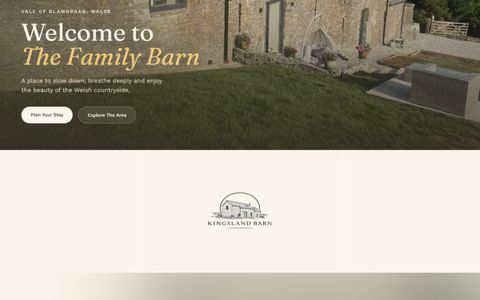
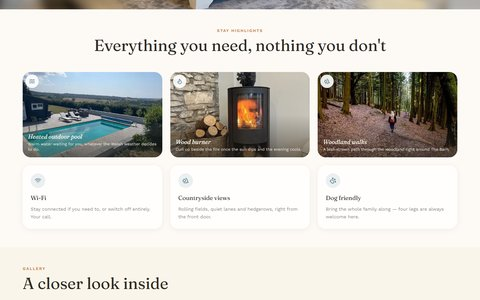
Clean up internal links to clean URLs, mix up filmstrip order, slow scroll, fix blank barn tile
- index.html/case-studies.html: use clean URLs (/, /case-studies) instead of .html to avoid Cloudflare redirect hop
- Interleave filmstrip tiles round-robin across all 6 projects instead of grouping by project
- Slow filmstrip scroll animation from 55s to 130s
- Recapture Kingsland Barn screenshot with scroll-triggered lazy-load, replace blank barn-mq2/mq3 tiles with real gallery/amenity photos

diff --git a/website/index.html b/website/index.html
@@ -28,7 +28,7 @@
       <a href="#pricing">Pricing</a>
       <a href="#reviews">Reviews</a>
       <a href="#faq">FAQ</a>
-      <a href="case-studies.html">Case Studies</a>
+      <a href="/case-studies">Case Studies</a>
       <a href="#contact">Contact</a>
     </nav>
     <a href="#contact" class="btn btn-primary btn-sm header-cta">Let's Talk</a>
@@ -281,28 +281,28 @@
     <div class="filmstrip-outer">
       <div class="filmstrip-track" id="filmstripTrack">
         <a class="filmstrip-tile" href="https://www.valereflexology.com" target="_blank" rel="noopener"><img src="assets/vale-mq1.jpg" alt="" loading="lazy"><span>Vale Reflexology</span></a>
-        <a class="filmstrip-tile" href="https://www.valereflexology.com" target="_blank" rel="noopener"><img src="assets/vale-mq2.jpg" alt="" loading="lazy"><span>Vale Reflexology</span></a>
-        <a class="filmstrip-tile" href="https://www.valereflexology.com" target="_blank" rel="noopener"><img src="assets/vale-mq3.jpg" alt="" loading="lazy"><span>Vale Reflexology</span></a>
         <a class="filmstrip-tile" href="https://kingslandbarn.co.uk" target="_blank" rel="noopener"><img src="assets/barn-mq1.jpg" alt="" loading="lazy"><span>Kingsland Barn</span></a>
-        <a class="filmstrip-tile" href="https://kingslandbarn.co.uk" target="_blank" rel="noopener"><img src="assets/barn-mq2.jpg" alt="" loading="lazy"><span>Kingsland Barn</span></a>
-        <a class="filmstrip-tile" href="https://kingslandbarn.co.uk" target="_blank" rel="noopener"><img src="assets/barn-mq3.jpg" alt="" loading="lazy"><span>Kingsland Barn</span></a>
         <a class="filmstrip-tile" href="https://www.brew-buddies.com" target="_blank" rel="noopener"><img src="assets/brewbuddies-mq1.jpg" alt="" loading="lazy"><span>Brew Buddies</span></a>
-        <a class="filmstrip-tile" href="https://www.brew-buddies.com" target="_blank" rel="noopener"><img src="assets/brewbuddies-mq2.jpg" alt="" loading="lazy"><span>Brew Buddies</span></a>
-        <a class="filmstrip-tile" href="https://www.brew-buddies.com" target="_blank" rel="noopener"><img src="assets/brewbuddies-mq3.jpg" alt="" loading="lazy"><span>Brew Buddies</span></a>
         <a class="filmstrip-tile" href="https://www.snowbuddy.co.uk" target="_blank" rel="noopener"><img src="assets/snowbuddy-mq1.jpg" alt="" loading="lazy"><span>SnowBuddy</span></a>
-        <a class="filmstrip-tile" href="https://www.snowbuddy.co.uk" target="_blank" rel="noopener"><img src="assets/snowbuddy-mq2.jpg" alt="" loading="lazy"><span>SnowBuddy</span></a>
-        <a class="filmstrip-tile" href="https://www.snowbuddy.co.uk" target="_blank" rel="noopener"><img src="assets/snowbuddy-mq3.jpg" alt="" loading="lazy"><span>SnowBuddy</span></a>
         <a class="filmstrip-tile" href="https://square3.co.uk" target="_blank" rel="noopener"><img src="assets/square3-mq1.jpg" alt="" loading="lazy"><span>Square³</span></a>
-        <a class="filmstrip-tile" href="https://square3.co.uk" target="_blank" rel="noopener"><img src="assets/square3-mq2.jpg" alt="" loading="lazy"><span>Square³</span></a>
-        <a class="filmstrip-tile" href="https://square3.co.uk" target="_blank" rel="noopener"><img src="assets/square3-mq3.jpg" alt="" loading="lazy"><span>Square³</span></a>
         <a class="filmstrip-tile" href="https://myvillagedecor.legendwebsites.co.uk" target="_blank" rel="noopener"><img src="assets/myvillagedecor-mq1.jpg" alt="" loading="lazy"><span>My Village Decor</span></a>
+        <a class="filmstrip-tile" href="https://kingslandbarn.co.uk" target="_blank" rel="noopener"><img src="assets/barn-mq2.jpg" alt="" loading="lazy"><span>Kingsland Barn</span></a>
+        <a class="filmstrip-tile" href="https://www.snowbuddy.co.uk" target="_blank" rel="noopener"><img src="assets/snowbuddy-mq2.jpg" alt="" loading="lazy"><span>SnowBuddy</span></a>
+        <a class="filmstrip-tile" href="https://www.valereflexology.com" target="_blank" rel="noopener"><img src="assets/vale-mq2.jpg" alt="" loading="lazy"><span>Vale Reflexology</span></a>
         <a class="filmstrip-tile" href="https://myvillagedecor.legendwebsites.co.uk" target="_blank" rel="noopener"><img src="assets/myvillagedecor-mq2.jpg" alt="" loading="lazy"><span>My Village Decor</span></a>
+        <a class="filmstrip-tile" href="https://square3.co.uk" target="_blank" rel="noopener"><img src="assets/square3-mq2.jpg" alt="" loading="lazy"><span>Square³</span></a>
+        <a class="filmstrip-tile" href="https://www.brew-buddies.com" target="_blank" rel="noopener"><img src="assets/brewbuddies-mq2.jpg" alt="" loading="lazy"><span>Brew Buddies</span></a>
+        <a class="filmstrip-tile" href="https://square3.co.uk" target="_blank" rel="noopener"><img src="assets/square3-mq3.jpg" alt="" loading="lazy"><span>Square³</span></a>
+        <a class="filmstrip-tile" href="https://www.valereflexology.com" target="_blank" rel="noopener"><img src="assets/vale-mq3.jpg" alt="" loading="lazy"><span>Vale Reflexology</span></a>
+        <a class="filmstrip-tile" href="https://kingslandbarn.co.uk" target="_blank" rel="noopener"><img src="assets/barn-mq3.jpg" alt="" loading="lazy"><span>Kingsland Barn</span></a>
         <a class="filmstrip-tile" href="https://myvillagedecor.legendwebsites.co.uk" target="_blank" rel="noopener"><img src="assets/myvillagedecor-mq3.jpg" alt="" loading="lazy"><span>My Village Decor</span></a>
+        <a class="filmstrip-tile" href="https://www.snowbuddy.co.uk" target="_blank" rel="noopener"><img src="assets/snowbuddy-mq3.jpg" alt="" loading="lazy"><span>SnowBuddy</span></a>
+        <a class="filmstrip-tile" href="https://www.brew-buddies.com" target="_blank" rel="noopener"><img src="assets/brewbuddies-mq3.jpg" alt="" loading="lazy"><span>Brew Buddies</span></a>
       </div>
     </div>
 
     <div class="wrap">
-      <div class="pricing-cta"><a href="case-studies.html" class="btn btn-primary">View All Case Studies</a></div>
+      <div class="pricing-cta"><a href="/case-studies" class="btn btn-primary">View All Case Studies</a></div>
     </div>
   </section>
 

diff --git a/website/case-studies.html b/website/case-studies.html
@@ -18,20 +18,20 @@
 
 <header class="site-header" id="top">
   <div class="wrap header-inner">
-    <a class="brand" href="index.html">
+    <a class="brand" href="/">
       <img src="assets/logo-circle-120.png" alt="" class="brand-mark" aria-hidden="true">
       <span class="brand-text">Legend <strong>Website Design</strong></span>
     </a>
     <nav class="main-nav" aria-label="Primary">
-      <a href="index.html">Home</a>
-      <a href="index.html#services">Services</a>
-      <a href="index.html#pricing">Pricing</a>
-      <a href="index.html#reviews">Reviews</a>
-      <a href="index.html#faq">FAQ</a>
-      <a href="case-studies.html" aria-current="page">Case Studies</a>
-      <a href="index.html#contact">Contact</a>
+      <a href="/">Home</a>
+      <a href="/#services">Services</a>
+      <a href="/#pricing">Pricing</a>
+      <a href="/#reviews">Reviews</a>
+      <a href="/#faq">FAQ</a>
+      <a href="/case-studies" aria-current="page">Case Studies</a>
+      <a href="/#contact">Contact</a>
     </nav>
-    <a href="index.html#contact" class="btn btn-primary btn-sm header-cta">Let's Talk</a>
+    <a href="/#contact" class="btn btn-primary btn-sm header-cta">Let's Talk</a>
     <button class="nav-toggle" aria-label="Open menu" aria-expanded="false" id="navToggle">
       <span></span><span></span><span></span>
     </button>
@@ -167,7 +167,7 @@
       <p class="contact-lede">Whether it's a brand-new site or bringing a tired one up to scratch, we'd love to hear about it.</p>
       <div class="contact-actions">
         <a href="mailto:support@legendwebsites.co.uk?subject=New%20project%20enquiry" class="btn btn-primary">Email support@legendwebsites.co.uk</a>
-        <a href="index.html#pricing" class="btn btn-outline">See pricing</a>
+        <a href="/#pricing" class="btn btn-outline">See pricing</a>
       </div>
     </div>
   </section>
@@ -176,7 +176,7 @@
 
 <footer class="site-footer">
   <div class="wrap footer-inner">
-    <a class="brand" href="index.html">
+    <a class="brand" href="/">
       <img src="assets/logo-circle-120.png" alt="" class="brand-mark" aria-hidden="true">
       <span class="brand-text">Legend <strong>Website Design</strong></span>
     </a>

diff --git a/website/styles.css b/website/styles.css
@@ -434,7 +434,7 @@ a { color: inherit; text-decoration: none; }
   gap: 16px;
   width: max-content;
   padding: 4px 0;
-  animation: filmstripScroll 55s linear infinite;
+  animation: filmstripScroll 130s linear infinite;
 }
 .filmstrip-outer:hover .filmstrip-track { animation-play-state: paused; }
 @keyframes filmstripScroll {
